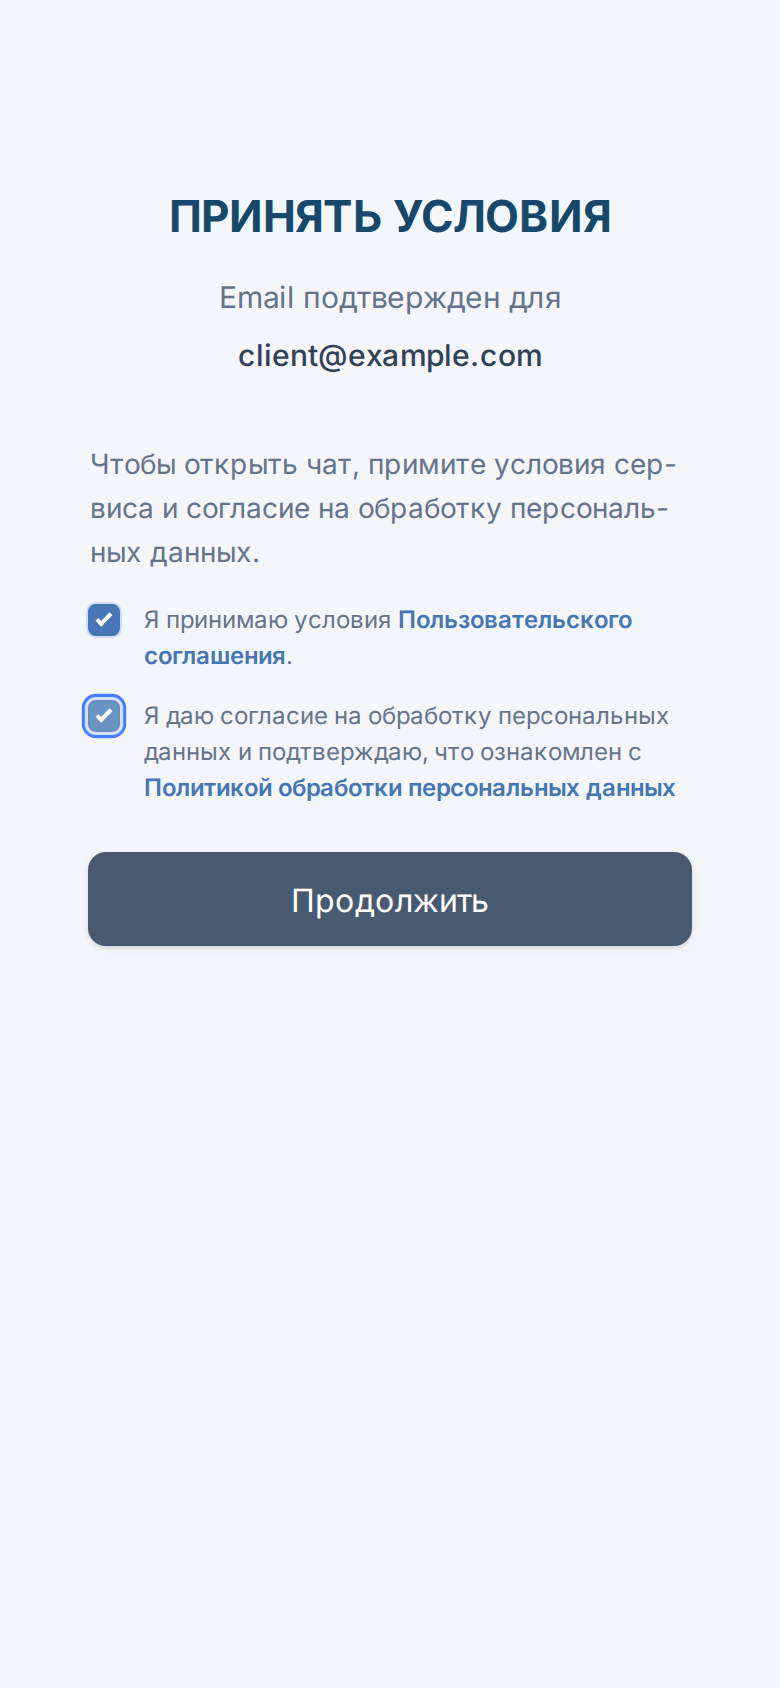
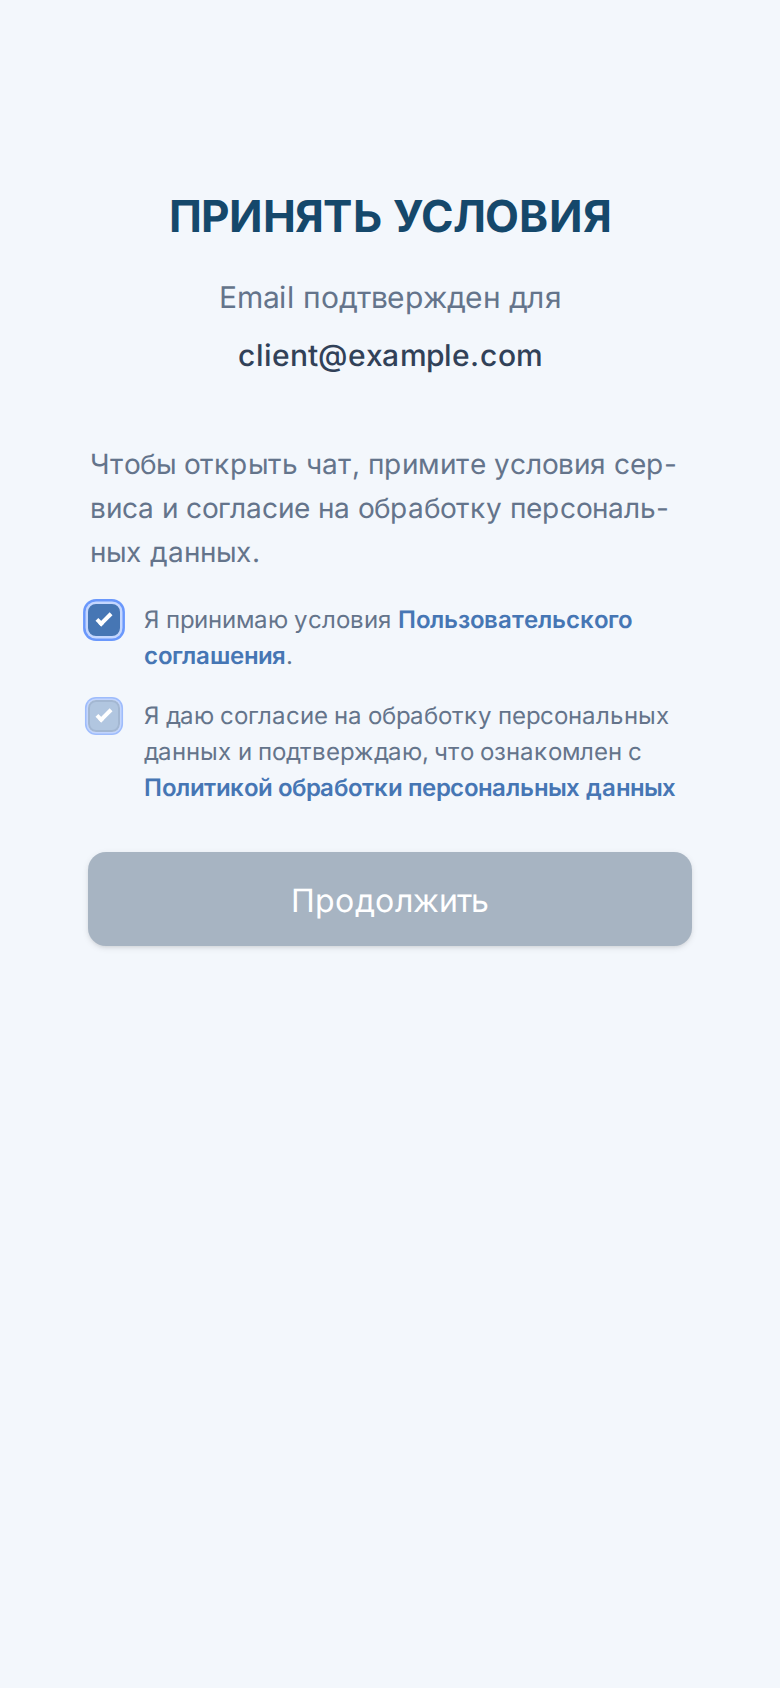
docs: reorder PROVGROUP guide install steps

Changed region(s): [[0.0923, 0.4929, 0.8923, 0.5853], [0.0923, 0.4005, 0.1846, 0.4621]]

diff --git a/docs/user-guides/provgroup-client-portal/guide.html b/docs/user-guides/provgroup-client-portal/guide.html
@@ -210,7 +210,7 @@
         <div class="page-copy">
         <p>При первом доступе нужно принять пользовательское соглашение и согласие на обработку персональных данных.</p>
         <p>Без этих отметок личный кабинет клиента не откроет чат.</p>
-        <ol class="guide-steps"><li>Отметьте оба согласия.</li><li>Кнопка «Продолжить» станет активной.</li><li>После продолжения откроется чат.</li></ol>
+        <ol class="guide-steps"><li>Отметьте оба согласия.</li><li>Кнопка «Продолжить» станет активной.</li><li>После продолжения откроется чат. Если появится предложение установки, следующие шаги покажут, как его использовать.</li></ol>
       </div>
         <div class="page-visual">
     <figure class="phone-shot ">
@@ -228,31 +228,6 @@
     <section class="page">
       <header class="page-head">
         <div class="kicker">Шаг 5</div>
-        <h1>Пользуйтесь чатом</h1>
-      </header>
-      <div class="page-grid">
-        <div class="page-copy">
-        <p>В чате отображается переписка с поддержкой. Напишите сообщение в нижнее поле и отправьте его кнопкой справа.</p>
-        <p>Меню в правом верхнем углу открывает профиль, настройки и выход. Если вас добавили в групповые чаты, выберите нужную группу через меню слева.</p>
-        <p>После входа по коду можно пользоваться чатом без пароля. Если вы выйдете из аккаунта или очистите cookies, следующий вход снова будет по коду из почты. Пароль можно задать позже в профиле.</p>
-        <ol class="guide-steps"><li>Верхняя панель показывает текущий чат и статус связи.</li><li>История сообщений находится в центре экрана.</li><li>Новое сообщение вводится в поле внизу.</li><li>Групповой чат можно выбрать в левом меню, если он доступен вашему аккаунту.</li></ol>
-      </div>
-        <div class="page-visual">
-    <figure class="phone-shot ">
-      <div class="phone-frame">
-        <img src="assets/05-chat.png" alt="">
-      </div>
-
-    </figure>
-  </div>
-      </div>
-
-    </section>
-
-
-    <section class="page">
-      <header class="page-head">
-        <div class="kicker">Шаг 6</div>
         <h1>Установите на Android</h1>
       </header>
       <div class="page-grid">
@@ -277,13 +252,13 @@
 
     <section class="page">
       <header class="page-head">
-        <div class="kicker">Шаг 7</div>
+        <div class="kicker">Шаг 6</div>
         <h1>Установите на iPhone</h1>
       </header>
       <div class="page-grid">
         <div class="page-copy">
         <p>На iPhone установка выполняется вручную через меню браузера, поэтому личный кабинет клиента показывает короткую инструкцию прямо внутри чата.</p>
-        <p>Нажмите <strong>Установить</strong>, прочитайте шаги и выполните их в Safari или Chrome.</p>
+        <p>Прочитайте и запомните шаги из подсказки. Кнопку <strong>Понятно</strong> можно нажать после того, как вы поняли порядок действий.</p>
         <ol class="guide-steps"><li>Откройте личный кабинет клиента в Safari или Chrome.</li><li>Нажмите «Поделиться».</li><li>Выберите добавление на экран Домой.</li><li>Нажмите «Добавить».</li></ol>
       </div>
         <div class="page-visual">
@@ -296,6 +271,31 @@
   </div>
       </div>
       <p class="page-note">В Chrome название пункта может отличаться, например «Добавить на главный экран». Системное меню браузера открывается поверх страницы, поэтому на скриншоте показана подсказка внутри кабинета.</p>
+    </section>
+
+
+    <section class="page">
+      <header class="page-head">
+        <div class="kicker">Шаг 7</div>
+        <h1>Пользуйтесь чатом</h1>
+      </header>
+      <div class="page-grid">
+        <div class="page-copy">
+        <p>В чате отображается переписка с поддержкой. Напишите сообщение в нижнее поле и отправьте его кнопкой справа.</p>
+        <p>Меню в правом верхнем углу открывает профиль, настройки и выход. Если вас добавили в групповые чаты, выберите нужную группу через меню слева.</p>
+        <p>После входа по коду можно пользоваться чатом без пароля. Если вы выйдете из аккаунта или очистите cookies, следующий вход снова будет по коду из почты. Пароль можно задать позже в профиле.</p>
+        <ol class="guide-steps"><li>Верхняя панель показывает текущий чат и статус связи.</li><li>История сообщений находится в центре экрана.</li><li>Новое сообщение вводится в поле внизу.</li><li>Групповой чат можно выбрать в левом меню, если он доступен вашему аккаунту.</li></ol>
+      </div>
+        <div class="page-visual">
+    <figure class="phone-shot ">
+      <div class="phone-frame">
+        <img src="assets/05-chat.png" alt="">
+      </div>
+
+    </figure>
+  </div>
+      </div>
+
     </section>
 
 

diff --git a/docs/superpowers/specs/2026-06-27-provgroup-user-guide-pdf-design.md b/docs/superpowers/specs/2026-06-27-provgroup-user-guide-pdf-design.md
@@ -35,11 +35,11 @@ Use the approved "B. Пошаговая инструкция" structure:
 2. First sign-in by email code.
 3. Enter the email code.
 4. Accept legal terms and personal-data consent.
-5. Main chat and sending a message, with the passwordless access explanation
-   and group-chat selection from the left menu when groups are available.
-6. Install on Android through Chrome, including the menu-based path if the user
+5. Install on Android through Chrome, including the menu-based path if the user
    dismissed the install banner.
-7. Install on iPhone through Safari or Chrome.
+6. Install on iPhone through Safari or Chrome.
+7. Main chat and sending a message, with the passwordless access explanation
+   and group-chat selection from the left menu when groups are available.
 8. Profile and password setup.
 9. Returning without password: sign in by email code.
 10. Password sign-in for users who already set a password.
@@ -60,6 +60,8 @@ Use the approved "B. Пошаговая инструкция" structure:
   Chromium `beforeinstallprompt` flow.
 - For iPhone install, show the real portal iOS manual install instruction state
   from `PwaInstallBanner`.
+- The iPhone install guide text must describe reading the already opened
+  instruction state with the `Понятно` button, not pressing `Установить`.
 - The iOS wording must not imply Safari is the only supported browser; Chrome on
   iPhone/iPad can also add websites to the Home Screen through its share menu.
 - Do not use drawn browser/device mockups for install steps.